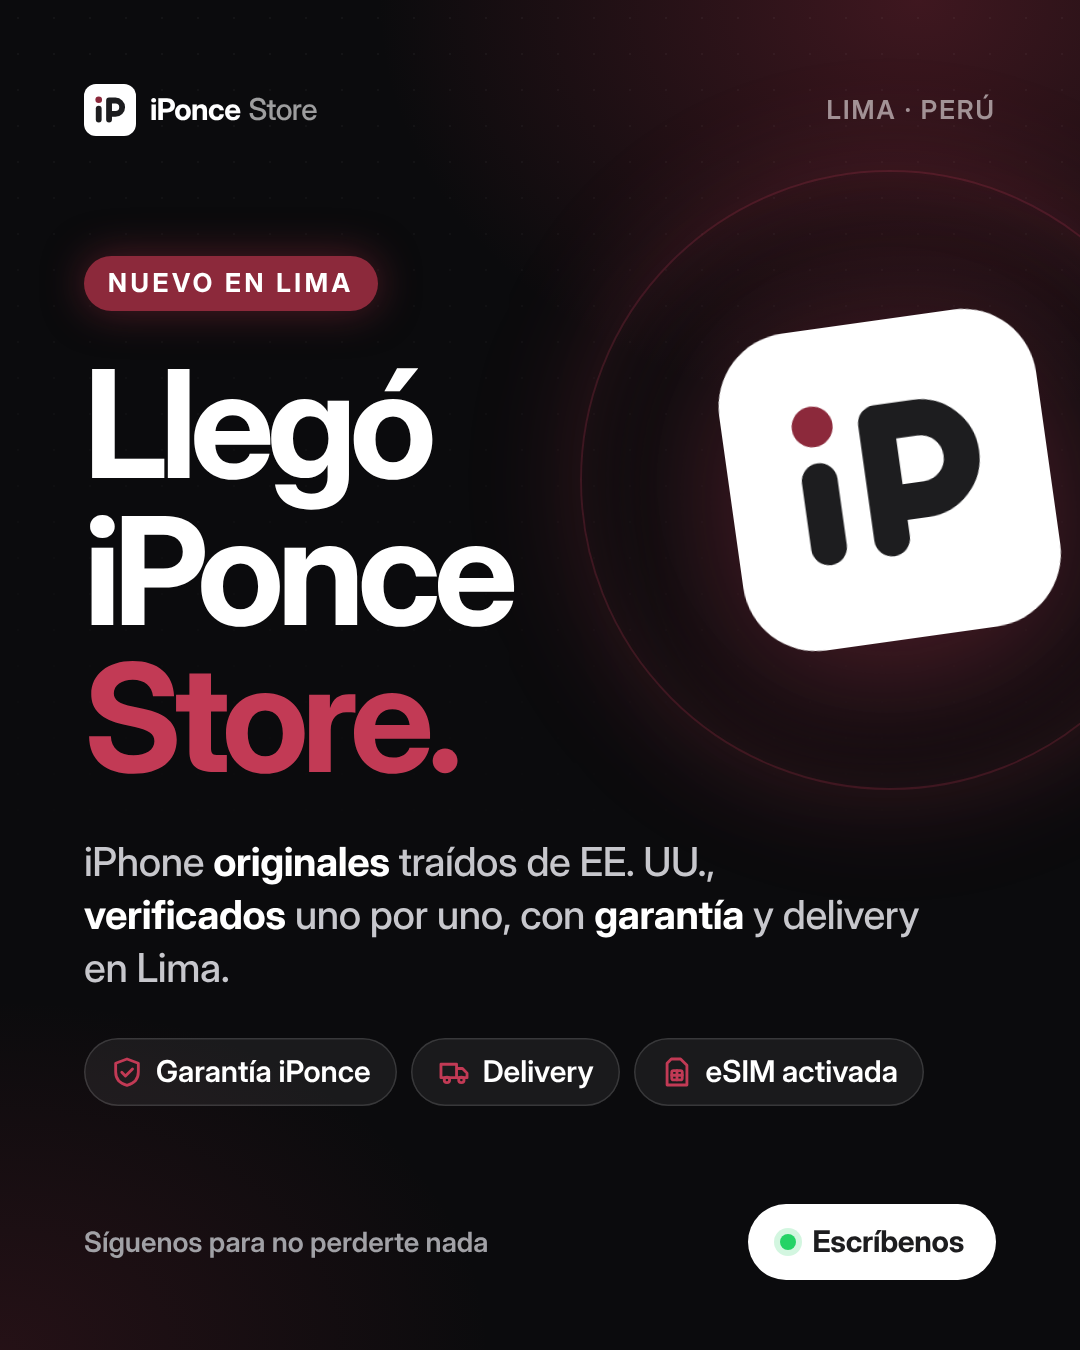
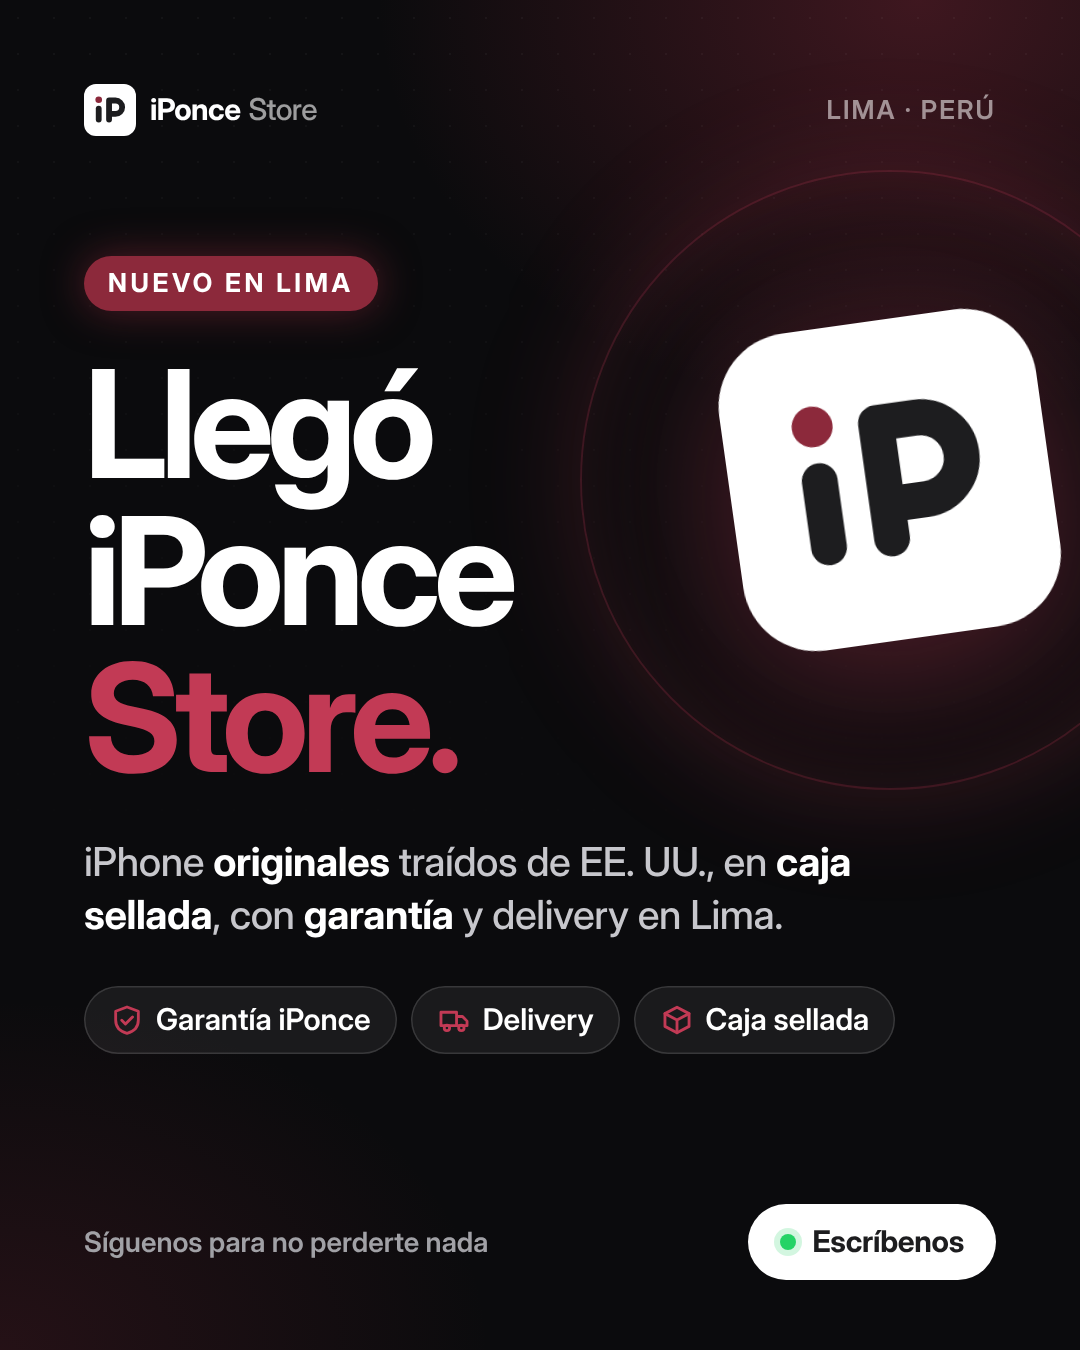
Adaptar contenido a venta en caja sellada y al iPhone 18 Pro Max
La caja se abre después del pago, así que se quita todo lo que implicaba
abrirla antes (batería, comparar IMEI del equipo, eSIM ya activada). El
carrusel ahora enseña a verificar sin romper el sello: lengüetas intactas,
número de serie e IMEI de la etiqueta y comprobante.

Claude-Session: https://claude.ai/code/session_01AGu2MBZCBgkEZc8YjBJeC6

Changed region(s): [[0.0611, 0.6222, 0.8556, 0.8089], [0.6111, 0.7467, 0.8556, 0.8089], [0.3972, 0.7467, 0.55, 0.8089]]

diff --git a/contenido/posts/LEEME.md b/contenido/posts/LEEME.md
@@ -14,11 +14,12 @@
 | Precio | El más alto | Bajo, pero con riesgo | **Competitivo y sin riesgo** |
 | Garantía | Oficial | Ninguna o de palabra | **Por escrito** |
 | Atención | De tienda, por turnos | Desaparecen después de vender | **Por WhatsApp, antes y después** |
-| eSIM | — | No te explican nada | **Te lo entregan activado** |
+| Caja sellada | Sí | A veces abierta o usada | **Sellada: el sello lo rompe el cliente** |
+| eSIM | — | No te explican nada | **Te ayudan a activarla** |
 
 **Conclusión:** en Perú hay mucho miedo a comprar iPhone por redes, y con razón. En 2026 un tiktoker fue condenado a más de 9 años de cárcel por cobrar iPhones que nunca entregó. Por eso **tu contenido no debe gritar "¡OFERTA!"** como hacen todos. Debe demostrar, una y otra vez, que **contigo es seguro comprar**. Cada publicación de este paquete está pensada para eso.
 
-**Tu ventaja extra:** el nuevo **iPhone 18 Pro** salió en color **Borgoña**, el mismo color de tu marca. Úsalo en todo lo que puedas.
+**Tu ventaja extra:** el nuevo **iPhone 18 Pro Max** salió en color **Borgoña**, el mismo color de tu marca. Úsalo en todo lo que puedas.
 
 ---
 
@@ -28,8 +29,8 @@
 |---|---|---|
 | 1 | Lanzamiento | `01-lanzamiento/01-llego-iponce.png` |
 | 2 | Reel de colores | `iponce-reel-colores.mp4` (ya lo tienes) |
-| 3 | Carrusel "Antes de pagar" | `02-carrusel-antes-de-comprar/` (7 imágenes) |
-| 4 | iPhone 18 Pro | `01-lanzamiento/02-iphone-18-pro.png` |
+| 3 | Carrusel "Caja sellada" | `02-carrusel-caja-sellada/` (7 imágenes) |
+| 4 | iPhone 18 Pro Max | `01-lanzamiento/02-iphone-18-pro-max.png` |
 | 5 | Garantía iPonce | `04-garantia-iponce.png` |
 | 7 | No es solo el precio | `05-no-es-solo-el-precio.png` |
 | 8 | Reel eSIM (lo grabas tú, guion en el calendario) | — |
@@ -37,7 +38,7 @@
 
 **Historias:** usa las 3 de `06-historias/` en la primera semana y luego repítelas cada 7–10 días.
 
-> **Antes de publicar, confirma** que de verdad ofreces todo lo que dicen los diseños: garantía por escrito, boleta o factura, revisión del IMEI, eSIM activada y delivery. Prometer y no cumplir destruye la confianza que estamos construyendo.
+> **Antes de publicar, confirma** que de verdad ofreces todo lo que dicen los diseños: caja sellada, garantía por escrito, boleta o factura, revisión del IMEI, ayuda con la eSIM y delivery. Prometer y no cumplir destruye la confianza que estamos construyendo.
 
 ---
 
@@ -46,47 +47,47 @@
 ### Día 1 · Llegó iPonce Store
 > Llegó iPonce Store 🚀
 >
-> iPhone originales traídos de EE. UU., verificados uno por uno, con garantía por escrito y delivery en Lima.
+> iPhone originales traídos de EE. UU., en caja sellada, con garantía por escrito y delivery en Lima.
 >
-> Aquí no vas a encontrar promesas raras. Vas a encontrar transparencia: te mostramos el IMEI, la batería y la garantía antes de que pagues.
+> Aquí no hay promesas raras: antes de que pagues te mostramos la caja sellada y su etiqueta, para que verifiques el número de serie y el IMEI. El sello lo rompes tú.
 >
-> Síguenos y activa las notificaciones 🔔 Se viene el iPhone 18 Pro.
+> Síguenos y activa las notificaciones 🔔 Se viene el iPhone 18 Pro Max.
 >
 > #iPonceStore #iPhonePeru #iPhoneLima
 
 ### Día 2 · Reel de colores
 > ¿Equipo Borgoña 🍷 o Glaciar 🩵?
 >
-> Así llegaron los nuevos iPhone 18 Pro. Comenta tu color y te escribimos con precio y disponibilidad 👇
+> Así llegaron los nuevos iPhone 18 Pro Max. Comenta tu color y te escribimos con precio y disponibilidad 👇
 >
-> #iPhone18Pro #iPhonePeru #iPhoneLima #Unboxing #iPonceStore
+> #iPhone18ProMax #iPhonePeru #iPhoneLima #Unboxing #iPonceStore
 
 **Comentario fijado (en todas las publicaciones):** Escríbenos al WhatsApp del perfil para cotizar 📲
 
 Las versiones cortas para TikTok están en la galería, debajo de cada publicación.
 
-### Día 3 · Carrusel "Antes de pagar por un iPhone"
-> Antes de pagar por un iPhone, revisa estas 5 cosas 👇
+### Día 3 · Carrusel "Caja sellada"
+> ¿Te venden un iPhone en caja sellada? Así lo verificas sin abrirla 👇
 >
-> Cada semana alguien en Lima pierde su plata comprando un iPhone por redes. No dejes que te pase.
+> Sello, número de serie, IMEI y comprobante: todo se revisa sin romper el sello. Cada semana alguien en Lima pierde su plata comprando un iPhone por redes. Que no te pase a ti.
 >
 > 📌 Guárdalo para cuando lo necesites y compártelo con quien está por comprar uno.
 >
 > #iPhonePeru #iPhoneLima #TipsiPhone #iPonceStore
 
-### Día 4 · iPhone 18 Pro
+### Día 4 · iPhone 18 Pro Max
 > Borgoña o Glaciar. Tú eliges 🍷🩵
 >
-> El nuevo iPhone 18 Pro ya está en Lima: original, con garantía iPonce y delivery.
+> El nuevo iPhone 18 Pro Max ya está en Lima: original, en caja sellada, con Garantía iPonce y delivery.
 >
 > Escríbenos por WhatsApp (link en el perfil) y consulta disponibilidad y precio.
 >
-> #iPhone18Pro #iPhonePeru #iPhoneLima #iPonceStore
+> #iPhone18ProMax #iPhonePeru #iPhoneLima #iPonceStore
 
 ### Día 5 · Garantía iPonce
 > Tu tranquilidad también viene en la caja 🛡
 >
-> Cada iPhone que vendemos sale con garantía por escrito, IMEI revisado y comprobante electrónico. Y si después tienes una duda, nos escribes y respondemos.
+> Cada iPhone que vendemos llega en caja sellada, con IMEI revisado, garantía por escrito y boleta o factura electrónica. Y si después de tu compra tienes una duda, nos escribes y te respondemos.
 >
 > #iPonceStore #iPhoneLima #iPhoneOriginal
 
@@ -104,7 +105,7 @@ Las versiones cortas para TikTok están en la galería, debajo de cada publicaci
 >
 > Desliza y entiende la eSIM en 1 minuto 👉
 >
-> En iPonce te lo entregamos con la eSIM activada.
+> En iPonce te ayudamos a activarla paso a paso por WhatsApp.
 >
 > #eSIM #iPhonePeru #TipsiPhone #iPonceStore
 
@@ -119,6 +120,6 @@ Las versiones cortas para TikTok están en la galería, debajo de cada publicaci
 ## Consejos
 
 - **Sube los carruseles en orden** (01, 02, 03…). En Instagram puedes seleccionar varias imágenes a la vez.
-- **Fija en tu perfil** el carrusel "Antes de pagar" y el de eSIM: son los que más confianza generan.
+- **Fija en tu perfil** el carrusel "Caja sellada" y el de eSIM: son los que más confianza generan.
 - **Para editar textos o colores**, cambia `contenido/fuente/posts.mjs` y vuelve a generar las imágenes con:
   `NODE_PATH=$(npm root -g) node contenido/fuente/posts.mjs`

diff --git a/contenido/calendario-30-dias.md b/contenido/calendario-30-dias.md
@@ -44,7 +44,7 @@ Son puntos de partida. A las 3 semanas revisa en **Estadísticas** a qué hora s
 
 ### Día 1 (lunes) · Reel: "¿Quién está detrás de iPonce?"
 - **Gancho (texto):** "Dejé de comprar iPhones caros en Lima y empecé a traerlos yo"
-- **Escenas:** tú hablando a cámara (3 s) → cajas llegando → abriendo una caja → logo iPonce al final.
+- **Escenas:** tú hablando a cámara (3 s) → cajas selladas llegando → primer plano del sello intacto → logo iPonce al final.
 - **Guion:** "Soy Alexander y creé iPonce Store para que compres tu iPhone original, con garantía y sin miedo a que te estafen. Aquí te voy a enseñar todo lo que nadie te cuenta de los iPhone importados."
 - **Descripción:** Esto recién empieza 🚀 Síguenos para tips, unboxings y precios reales de iPhone en Lima. #iPhonePeru #iPhoneLima
 
@@ -53,18 +53,18 @@ Son puntos de partida. A las 3 semanas revisa en **Estadísticas** a qué hora s
 - **Descripción:** ¿Equipo Borgoña 🍷 o Glaciar 🩵? Comenta tu color 👇 Te escribimos con precio y disponibilidad. #iPhone #iPhonePeru #iPhoneLima #Unboxing
 - **Tip:** fija tu primer comentario: "Escríbenos al WhatsApp del perfil para cotizar 📲".
 
-### Día 3 (miércoles) · Carrusel: "5 cosas que debes revisar antes de comprar un iPhone"
-1. Portada: "Antes de pagar, revisa esto 👇"
-2. El IMEI de la caja coincide con el del equipo (Ajustes › General › Información).
-3. Que el IMEI esté registrado y no tenga reporte de robo.
-4. La salud de la batería (Ajustes › Batería).
-5. Que te den comprobante (boleta o factura).
-6. Que te den una garantía por escrito.
-7. Cierre: "En iPonce te mostramos todo esto antes de que pagues. Guarda este post 📌"
+### Día 3 (miércoles) · Carrusel: "¿Caja sellada? Verifícala sin abrirla" ✅ (ya está diseñado)
+1. Portada: "¿Caja sellada? Verifícala sin abrirla."
+2. Sello intacto: las dos lengüetas de papel de la base están enteras.
+3. Número de serie de la etiqueta de la caja, validado en la web de Apple.
+4. IMEI de la etiqueta de la caja, sin reportes en OSIPTEL.
+5. Boleta o factura y garantía por escrito.
+6. "El sello lo rompes tú": pagas, recibes tu caja sellada y eres el primero en abrirla.
+7. Cierre: "Antes de pagar, te mostramos la caja y su etiqueta. Guarda este post 📌"
 
-### Día 4 (jueves) · Reel: "Así verifico cada iPhone antes de venderlo"
-- **Gancho:** "Si tu vendedor no hace esto, desconfía"
-- **Escenas:** comparas el IMEI de la caja con el del equipo, revisas la batería, haces una prueba de cámara y de Face ID.
+### Día 4 (jueves) · Reel: "Así verificas tu iPhone sin abrir la caja"
+- **Gancho:** "Si tu vendedor no te muestra esto, desconfía"
+- **Escenas:** primer plano de las lengüetas de papel intactas → la etiqueta de la caja → ingresas el número de serie en la web de Apple → consultas el IMEI en OSIPTEL. Todo sin abrir la caja.
 - **CTA:** "Así de transparente es iPonce. Escríbenos."
 
 ### Día 5 (viernes) · Reel en tendencia: "Lo que pides vs. lo que te llega"
@@ -87,11 +87,12 @@ Son puntos de partida. A las 3 semanas revisa en **Estadísticas** a qué hora s
 
 ### Día 8 · Reel: "Tu iPhone de EE. UU. NO tiene chip físico"
 - **Gancho:** "Ojo si compras un iPhone traído de EE. UU. 👀"
-- **Guion:** "Desde el iPhone 14, los modelos de EE. UU. funcionan solo con eSIM, sin bandeja para chip. ¿Funciona en Perú? Sí, con Claro, Movistar, Entel y Bitel. En iPonce te lo entregamos ya activado."
+- **Guion:** "Desde el iPhone 14, los modelos de EE. UU. funcionan solo con eSIM, sin bandeja para chip. ¿Funciona en Perú? Sí: Claro, Movistar y Entel ya la ofrecen. En iPonce te ayudamos a activarla paso a paso."
 - **Este es tu video más importante del mes.** Fíjalo en tu perfil.
 
 ### Día 9 · Reel unboxing ASMR
-- Sin hablar, solo sonidos: cortar el plástico, abrir la caja, sacar el equipo. Primeros planos.
+- Graba el unboxing de un cliente **después de su compra** (con su permiso) o de un equipo de exhibición tuyo. Nunca abras la caja de un equipo que vas a vender.
+- Sin hablar, solo sonidos: jalar las lengüetas de papel, abrir la caja, sacar el equipo. Primeros planos.
 - **Texto:** "Unboxing iPhone ___ 🎧 sube el volumen"
 
 ### Día 10 · Carrusel: "eSIM explicado en 5 pasos"
@@ -129,7 +130,7 @@ Son puntos de partida. A las 3 semanas revisa en **Estadísticas** a qué hora s
 - "Son reacondicionados" ❌, "No tienen garantía" ❌, "No funcionan en Perú" ❌, cada uno con la verdad ✔.
 
 ### Día 18 · Reel: "Cómo detectar un iPhone falso en 30 segundos"
-- Revisa el IMEI en Ajustes y en la web oficial de verificación de cobertura de Apple, el número de serie en la caja y la calidad del empaque.
+- Muestra cómo revisar el número de serie de la etiqueta en la web de Apple, el IMEI en OSIPTEL, las lengüetas de papel intactas y la calidad del empaque.
 - Es contenido muy compartible y te posiciona como experto.
 
 ### Día 19 · Reel en tendencia con humor
@@ -183,7 +184,7 @@ Son puntos de partida. A las 3 semanas revisa en **Estadísticas** a qué hora s
 - Encuesta: "¿Borgoña o Glaciar?" / "¿Pro o Pro Max?"
 - Caja de preguntas: "Pregúntame lo que quieras sobre iPhone"
 - Cuenta regresiva: "Llegan equipos nuevos el viernes"
-- Detrás de cámaras: empacando, revisando IMEI, en camino a una entrega
+- Detrás de cámaras: cajas selladas llegando, empacando pedidos, en camino a una entrega
 - Reposteo de clientes que te etiqueten
 
 ## Herramientas gratis recomendadas
